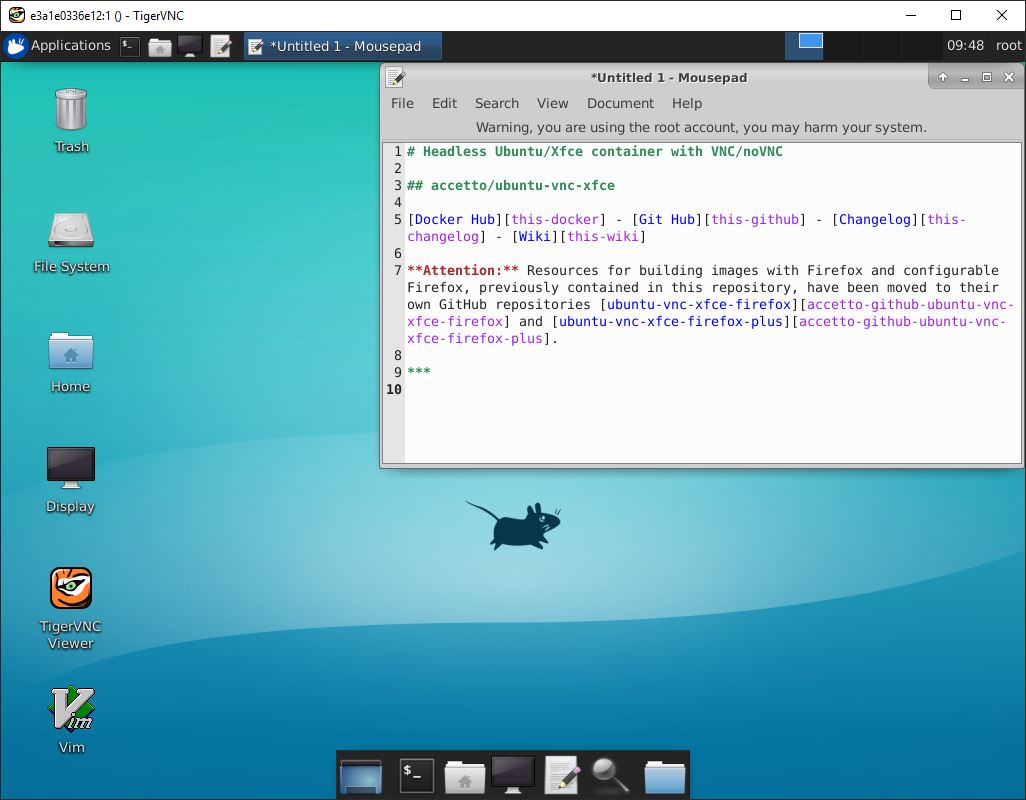
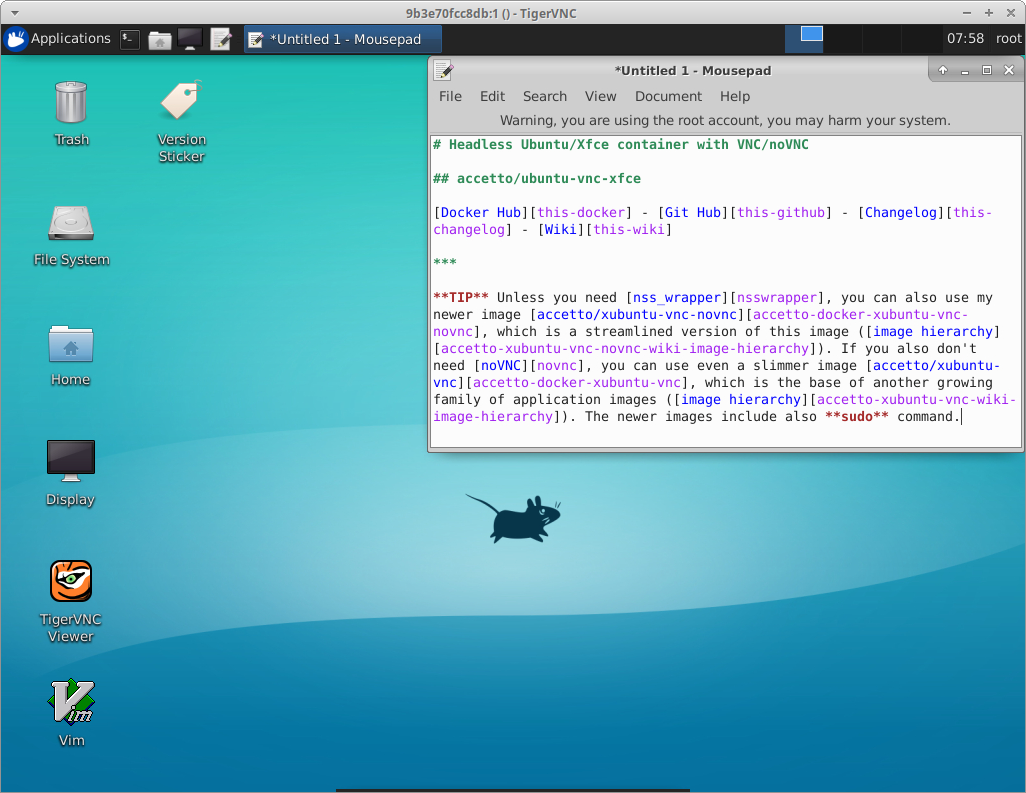
Release 20.02.1

diff --git a/README.md b/README.md
@@ -22,6 +22,12 @@
 
 ***
 
+**WARNING** for Windows users
+
+**Docker Desktop** (Docker for Windows) version **2.2.0.0** has introduced a new way of working with host's files. Unfortunately even the current version **2.2.0.3** leaves several issues with **bind mounts** unresolved. For example, I've found that **Firefox profiles** stored in bound host's folders don't persist modifications correctly. Firefox profiles stored in containers itself (writable layer) or on Docker managed volumes work correctly. If you need to use bind mounts, I wouldn't recommend upgrading to version 2.2 yet, because downgrading is not possible. The only way is to completely re-install the last working version **2.1.0.5**. However, you'll loose all the images and containers, so backup them first.
+
+***
+
 **Attention:** Resources for building images with Firefox and configurable Firefox, previously contained in this repository, have been moved to their own GitHub repositories [ubuntu-vnc-xfce-firefox][accetto-github-ubuntu-vnc-xfce-firefox] and [ubuntu-vnc-xfce-firefox-plus][accetto-github-ubuntu-vnc-xfce-firefox-plus].
 
 **This repository** contains resources for building a Docker image based on [Ubuntu][docker-ubuntu] with [Xfce][xfce] desktop environment and **VNC**/[noVNC][novnc] servers for headless use.

diff --git a/CHANGELOG.md b/CHANGELOG.md
@@ -8,6 +8,13 @@
 
 ***
 
+### Release 20.02.1
+
+- desktop launcher for version sticker script (verbose) added
+  - derived images inherit this change
+- container screenshot updated
+- **README** updated
+
 ### Release 20.01
 
 - **Ubuntu** base image has been updated
